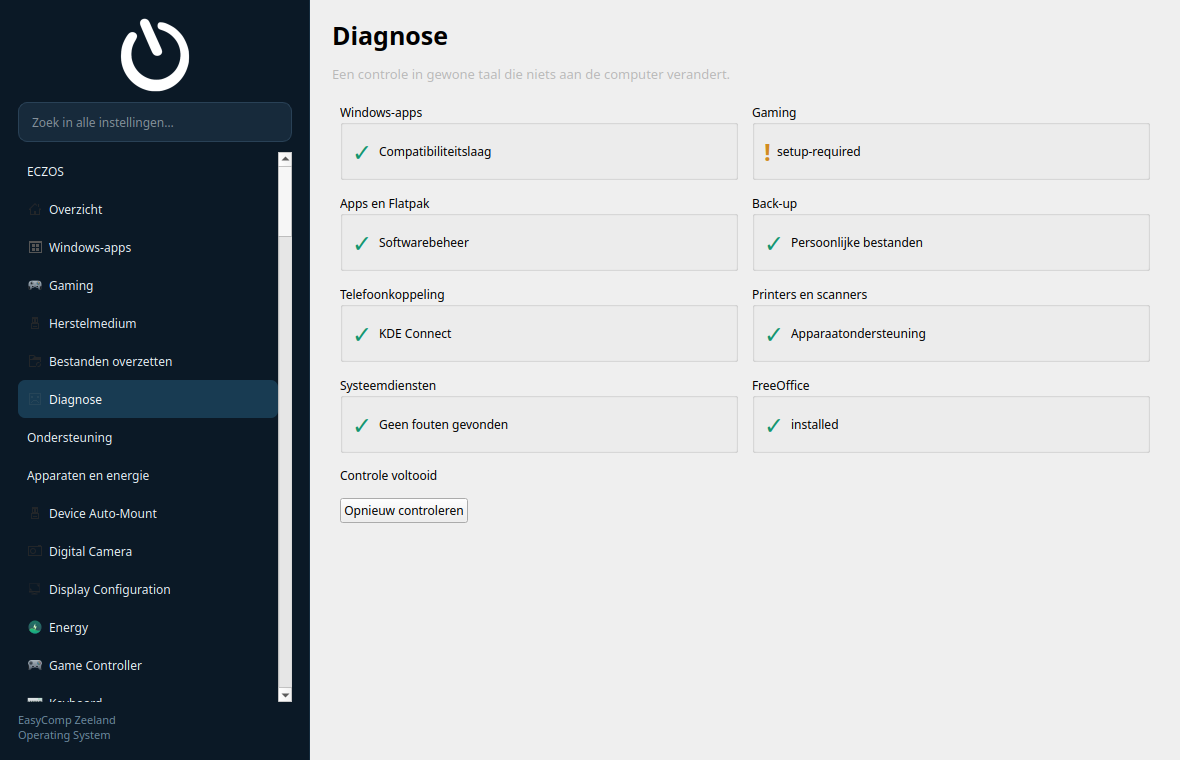
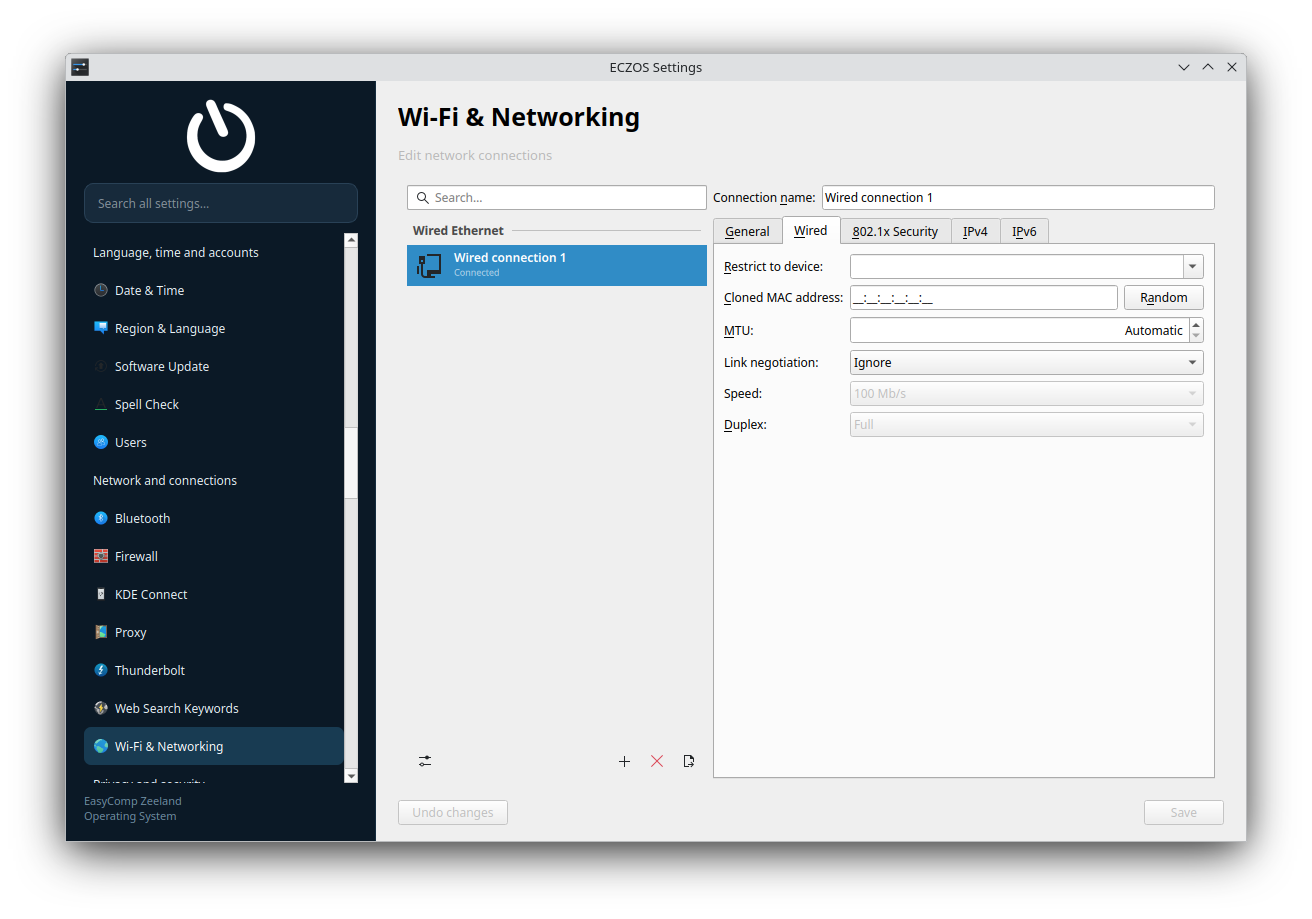
Polish first-release startup and OOBE

diff --git a/packages/eczos-oobe/qml/Main.qml b/packages/eczos-oobe/qml/Main.qml
@@ -141,6 +141,14 @@ ApplicationWindow {
             OobePage {
                 heading: qsTr("Choose your browser")
                 body: qsTr("Select which browser should open web pages by default.")
+                visualPreferredHeight: Math.min(260, window.height * 0.24)
+                visual: window.selectedBrowser === "chrome"
+                    ? "file:///usr/share/eczos/branding/screenshots/browser-chrome.png"
+                    : window.selectedBrowser === "edge-windows"
+                      ? "file:///usr/share/eczos/branding/screenshots/browser-edge.png"
+                      : window.selectedBrowser === "konqueror"
+                        ? "file:///usr/share/eczos/branding/screenshots/browser-konqueror.png"
+                        : "file:///usr/share/eczos/branding/screenshots/browser-firefox.png"
                 detail: window.selectedBrowser === "chrome"
                     ? qsTr("If Chrome is not installed yet, ECZOS will open the official download page when setup is complete.")
                     : window.selectedBrowser === "edge-windows"
@@ -185,9 +193,9 @@ ApplicationWindow {
 
             OobePage {
                 heading: qsTr("Find apps with Discover")
-                body: qsTr("Discover brings apps, games, system updates and firmware together in one place. Search by name and select Install.")
-                detail: qsTr("ECZOS supports regular Debian packages and Flatpak apps.")
-                visual: "file:///usr/share/eczos/branding/screenshots/application-menu.png"
+                body: qsTr("Explore a huge collection of free and open-source apps, games and creative tools. Search by name and select Install.")
+                detail: qsTr("Discover also brings ECZOS updates and firmware together in one place.")
+                visual: "file:///usr/share/eczos/branding/screenshots/discover.png"
                 OobeButton {
                     Layout.alignment: Qt.AlignHCenter
                     text: qsTr("Open Discover")
@@ -199,7 +207,7 @@ ApplicationWindow {
                 heading: qsTr("Keep your files safe")
                 body: qsTr("Plasma Vaults lets you create encrypted vaults for private files.")
                 detail: qsTr("Use the Start menu search to quickly find apps and files. Manage backups and recovery media in ECZOS Settings.")
-                visual: "file:///usr/share/eczos/branding/screenshots/desktop-clean.png"
+                visual: "file:///usr/share/eczos/branding/screenshots/plasma-vaults.png"
             }
 
             OobePage {
@@ -218,7 +226,7 @@ ApplicationWindow {
                 heading: qsTr("Windows apps and games")
                 body: qsTr("Open .exe and .msi files with ECZ Windows. Gaming checks help with Vulkan, controllers and Windows games.")
                 detail: qsTr("Each managed Windows app gets its own environment and then appears in the Start menu.")
-                visual: "file:///usr/share/eczos/branding/screenshots/game-running.png"
+                visual: "file:///usr/share/eczos/branding/screenshots/steam-library-content.png"
                 OobeButton {
                     Layout.alignment: Qt.AlignHCenter
                     text: qsTr("Open ECZOS Settings")
@@ -294,6 +302,7 @@ ApplicationWindow {
         property string body
         property string detail: ""
         property url visual: ""
+        property real visualPreferredHeight: Math.min(410, window.height * 0.37)
         spacing: 22
 
         Item { Layout.fillHeight: true }
@@ -330,7 +339,7 @@ ApplicationWindow {
         Rectangle {
             visible: pageLayout.visual.toString().length > 0
             Layout.preferredWidth: Math.min(980, window.width * 0.72)
-            Layout.preferredHeight: Math.min(410, window.height * 0.37)
+            Layout.preferredHeight: pageLayout.visualPreferredHeight
             Layout.alignment: Qt.AlignHCenter
             radius: 14
             color: "#d9071829"

diff --git a/packages/eczos-oobe/i18n/eczos-oobe_fr.ts b/packages/eczos-oobe/i18n/eczos-oobe_fr.ts
@@ -26,8 +26,8 @@
     <message><source>This browser is already included with the ECZOS desktop.</source><translation>Ce navigateur est déjà inclus dans le bureau ECZOS.</translation></message>
     <message><source>Microsoft Edge through ECZ Windows</source><translation>Microsoft Edge via ECZ Windows</translation></message>
     <message><source>Find apps with Discover</source><translation>Trouvez des applications avec Discover</translation></message>
-    <message><source>Discover brings apps, games, system updates and firmware together in one place. Search by name and select Install.</source><translation>Discover regroupe les applications, les jeux, les mises à jour système et les micrologiciels. Recherchez un nom et sélectionnez Installer.</translation></message>
-    <message><source>ECZOS supports regular Debian packages and Flatpak apps.</source><translation>ECZOS prend en charge les paquets Debian classiques et les applications Flatpak.</translation></message>
+    <message><source>Explore a huge collection of free and open-source apps, games and creative tools. Search by name and select Install.</source><translation>Explorez une immense collection d’applications, de jeux et d’outils créatifs libres et gratuits. Recherchez un nom et sélectionnez Installer.</translation></message>
+    <message><source>Discover also brings ECZOS updates and firmware together in one place.</source><translation>Discover regroupe également les mises à jour ECZOS et les micrologiciels au même endroit.</translation></message>
     <message><source>Open Discover</source><translation>Ouvrir Discover</translation></message>
     <message><source>Keep your files safe</source><translation>Protégez vos fichiers</translation></message>
     <message><source>Plasma Vaults lets you create encrypted vaults for private files.</source><translation>Les coffres-forts Plasma permettent de créer des espaces chiffrés pour les fichiers privés.</translation></message>

diff --git a/packages/eczos-oobe/i18n/eczos-oobe_de.ts b/packages/eczos-oobe/i18n/eczos-oobe_de.ts
@@ -26,8 +26,8 @@
     <message><source>This browser is already included with the ECZOS desktop.</source><translation>Dieser Browser ist bereits im ECZOS-Desktop enthalten.</translation></message>
     <message><source>Microsoft Edge through ECZ Windows</source><translation>Microsoft Edge über ECZ Windows</translation></message>
     <message><source>Find apps with Discover</source><translation>Apps mit Discover finden</translation></message>
-    <message><source>Discover brings apps, games, system updates and firmware together in one place. Search by name and select Install.</source><translation>Discover vereint Apps, Spiele, Systemaktualisierungen und Firmware an einem Ort. Suchen Sie nach dem Namen und wählen Sie Installieren.</translation></message>
-    <message><source>ECZOS supports regular Debian packages and Flatpak apps.</source><translation>ECZOS unterstützt reguläre Debian-Pakete und Flatpak-Apps.</translation></message>
+    <message><source>Explore a huge collection of free and open-source apps, games and creative tools. Search by name and select Install.</source><translation>Entdecken Sie eine riesige Auswahl an kostenlosen Open-Source-Apps, Spielen und Kreativwerkzeugen. Suchen Sie nach dem Namen und wählen Sie Installieren.</translation></message>
+    <message><source>Discover also brings ECZOS updates and firmware together in one place.</source><translation>Discover bündelt außerdem ECZOS-Aktualisierungen und Firmware an einem Ort.</translation></message>
     <message><source>Open Discover</source><translation>Discover öffnen</translation></message>
     <message><source>Keep your files safe</source><translation>Dateien sicher aufbewahren</translation></message>
     <message><source>Plasma Vaults lets you create encrypted vaults for private files.</source><translation>Mit Plasma-Tresoren können Sie verschlüsselte Tresore für private Dateien erstellen.</translation></message>

diff --git a/packages/eczos-oobe/i18n/eczos-oobe_nl.ts b/packages/eczos-oobe/i18n/eczos-oobe_nl.ts
@@ -26,8 +26,8 @@
     <message><source>This browser is already included with the ECZOS desktop.</source><translation>Deze browser is al onderdeel van de ECZOS-desktop.</translation></message>
     <message><source>Microsoft Edge through ECZ Windows</source><translation>Microsoft Edge via ECZ Windows</translation></message>
     <message><source>Find apps with Discover</source><translation>Apps vinden met Ontdekken</translation></message>
-    <message><source>Discover brings apps, games, system updates and firmware together in one place. Search by name and select Install.</source><translation>In Ontdekken vind je programma's, games, systeemupdates en firmware op één plek. Zoek op naam en klik op Installeren.</translation></message>
-    <message><source>ECZOS supports regular Debian packages and Flatpak apps.</source><translation>ECZOS ondersteunt normale Debian-pakketten en Flatpak-apps.</translation></message>
+    <message><source>Explore a huge collection of free and open-source apps, games and creative tools. Search by name and select Install.</source><translation>Ontdek een enorme verzameling gratis opensourceprogramma's, games en creatieve hulpmiddelen. Zoek op naam en kies Installeren.</translation></message>
+    <message><source>Discover also brings ECZOS updates and firmware together in one place.</source><translation>Discover brengt ook ECZOS-updates en firmware samen op één plek.</translation></message>
     <message><source>Open Discover</source><translation>Ontdekken openen</translation></message>
     <message><source>Keep your files safe</source><translation>Bestanden veilig bewaren</translation></message>
     <message><source>Plasma Vaults lets you create encrypted vaults for private files.</source><translation>Met Plasma Vaults kun je versleutelde kluizen voor privébestanden maken.</translation></message>

diff --git a/packages/eczos-desktop-defaults/lookandfeel/org.eczos.desktop/contents/splash/Splash.qml b/packages/eczos-desktop-defaults/lookandfeel/org.eczos.desktop/contents/splash/Splash.qml
@@ -14,6 +14,13 @@ Rectangle {
         asynchronous: true
     }
 
+    Image {
+        anchors.fill: parent
+        source: Qt.resolvedUrl("eczos-startup-poster.png")
+        fillMode: Image.PreserveAspectCrop
+        asynchronous: false
+    }
+
     VideoOutput {
         id: videoOutput
         anchors.fill: parent
@@ -24,8 +31,20 @@ Rectangle {
         id: startupAnimation
         source: Qt.resolvedUrl("eczos-startup.mp4")
         videoOutput: videoOutput
-        loops: MediaPlayer.Infinite
-        Component.onCompleted: play()
+        playbackRate: 2.0
+        loops: 1
+
+        onMediaStatusChanged: {
+            if (mediaStatus === MediaPlayer.LoadedMedia) {
+                position = 4000
+                play()
+            }
+        }
+
+        onPositionChanged: {
+            if (startupAnimation.position >= 9000)
+                pause()
+        }
     }
 
     Rectangle {

diff --git a/docs/asset-provenance.md b/docs/asset-provenance.md
@@ -10,7 +10,7 @@ asset are recorded.
 | ECZOS wallpapers | historical `Assets/` directory | confirmation required |
 | SDDM theme | derived from KDE Breeze | CC-BY-SA attribution and source review required |
 | Plymouth animation | working ECZOS prototype, reuse approved by project owner | formal license declaration required before public distribution |
-| Product screenshots | captured from ECZOS on the project GamePC on 2026-09-19 | ECZOS project-owned output; reviewed to contain no personal data |
+| Product screenshots | captured from ECZOS on the project GamePC on 2026-09-19 and 2026-09-20 | ECZOS project-owned output; reviewed to contain no personal data; third-party application interfaces and marks remain the property of their respective owners |
 
 An asset must not enter a public image merely because it exists in the old
 overlay.
